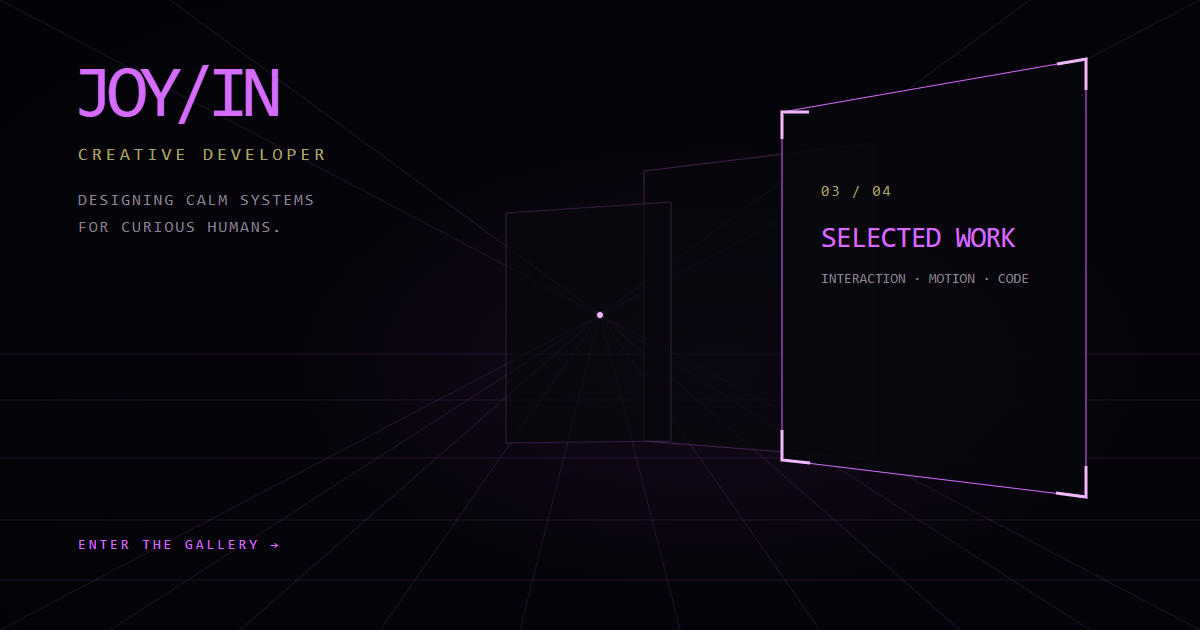
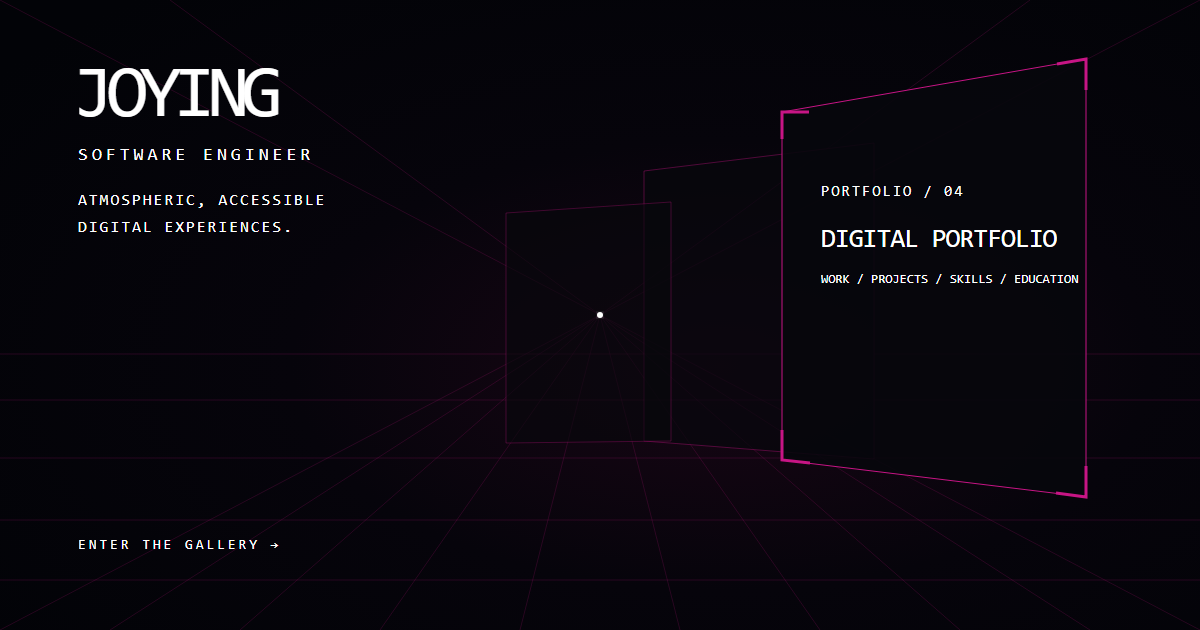
Update social preview and education spacing

diff --git a/index.html b/index.html
@@ -14,8 +14,18 @@
       property="og:description"
       content="A guided digital gallery of selected work, projects, skills, and education."
     />
-    <meta property="og:image" content="https://joying-yang.github.io/assets/og-card.png" />
+    <meta property="og:image" content="https://joying-yang.github.io/assets/og-card.png?v=20260818" />
+    <meta property="og:image:width" content="1200" />
+    <meta property="og:image:height" content="630" />
+    <meta property="og:image:alt" content="Joying's cyberpunk digital portfolio gallery" />
     <meta name="twitter:card" content="summary_large_image" />
+    <meta name="twitter:title" content="Joying" />
+    <meta
+      name="twitter:description"
+      content="A guided digital gallery of selected work, projects, skills, and education."
+    />
+    <meta name="twitter:image" content="https://joying-yang.github.io/assets/og-card.png?v=20260818" />
+    <meta name="twitter:image:alt" content="Joying's cyberpunk digital portfolio gallery" />
     <title>Joying</title>
     <link rel="canonical" href="https://joying-yang.github.io/" />
     <link rel="icon" href="assets/favicon.svg" type="image/svg+xml" />
@@ -511,7 +521,7 @@
                     </div>
                   </div>
                 </div>
-                <div class="tag-region">
+                <div class="tag-region tag-region--coursework">
                   <p>Selected coursework</p>
                   <ul class="tags" aria-label="Selected coursework">
                     <li>Operating Systems & Systems Programming</li><li>Database Systems</li><li>Natural Language Programming</li>

diff --git a/styles.css b/styles.css
@@ -1124,6 +1124,11 @@ body.has-2d-panel-layout[data-mode="2d"] #education .education-page .tag-region 
   margin-top: 10px;
 }
 
+body.has-scene-projection[data-mode="3d"] #education .education-page .tag-region--coursework,
+body.has-2d-panel-layout[data-mode="2d"] #education .education-page .tag-region--coursework {
+  margin-top: 28px;
+}
+
 body.has-scene-projection[data-mode="3d"] #education .education-page .tags,
 body.has-2d-panel-layout[data-mode="2d"] #education .education-page .tags {
   gap: 5px;
@@ -3087,6 +3092,11 @@ body.has-2d-panel-layout[data-mode="2d"] .panel-scroll {
     margin-top: 18px;
   }
 
+  body.has-scene-projection[data-mode="3d"] #education .education-page .tag-region--coursework,
+  body.has-2d-panel-layout[data-mode="2d"] #education .education-page .tag-region--coursework {
+    margin-top: 23px;
+  }
+
   #skills .skill-overview {
     gap: 6px;
     padding-bottom: 7px;
@@ -3263,6 +3273,11 @@ body.has-2d-panel-layout[data-mode="2d"] .panel-scroll {
   body.has-2d-panel-layout[data-mode="2d"] #education .education-page .tag-region {
     padding-top: 4px;
     margin-top: 6px;
+  }
+
+  body.has-scene-projection[data-mode="3d"] #education .education-page .tag-region--coursework,
+  body.has-2d-panel-layout[data-mode="2d"] #education .education-page .tag-region--coursework {
+    margin-top: 26px;
   }
 
   body.has-scene-projection[data-mode="3d"] #education .education-page .tags,

diff --git a/projects/quiet-hours/index.html b/projects/quiet-hours/index.html
@@ -8,7 +8,7 @@
     <meta property="og:type" content="article" />
     <meta property="og:title" content="Quiet Hours — Joying" />
     <meta property="og:description" content="A focused planning tool that translates a noisy week into humane commitments." />
-    <meta property="og:image" content="https://joying-yang.github.io/assets/og-card.png" />
+    <meta property="og:image" content="https://joying-yang.github.io/assets/og-card.png?v=20260818" />
     <title>Quiet Hours — Joying</title>
     <link rel="canonical" href="https://joying-yang.github.io/projects/quiet-hours/" />
     <link rel="icon" href="../../assets/favicon.svg" type="image/svg+xml" />

diff --git a/projects/signal-archive/index.html b/projects/signal-archive/index.html
@@ -8,7 +8,7 @@
     <meta property="og:type" content="article" />
     <meta property="og:title" content="Signal Archive — Joying" />
     <meta property="og:description" content="One place to connect observations, decisions, and product evidence." />
-    <meta property="og:image" content="https://joying-yang.github.io/assets/og-card.png" />
+    <meta property="og:image" content="https://joying-yang.github.io/assets/og-card.png?v=20260818" />
     <title>Signal Archive — Joying</title>
     <link rel="canonical" href="https://joying-yang.github.io/projects/signal-archive/" />
     <link rel="icon" href="../../assets/favicon.svg" type="image/svg+xml" />

diff --git a/projects/threshold/index.html b/projects/threshold/index.html
@@ -8,7 +8,7 @@
     <meta property="og:type" content="article" />
     <meta property="og:title" content="Threshold — Joying" />
     <meta property="og:description" content="A spatial archive that turns a dense collection into a calm, explorable narrative." />
-    <meta property="og:image" content="https://joying-yang.github.io/assets/og-card.png" />
+    <meta property="og:image" content="https://joying-yang.github.io/assets/og-card.png?v=20260818" />
     <title>Threshold — Joying</title>
     <link rel="canonical" href="https://joying-yang.github.io/projects/threshold/" />
     <link rel="icon" href="../../assets/favicon.svg" type="image/svg+xml" />
